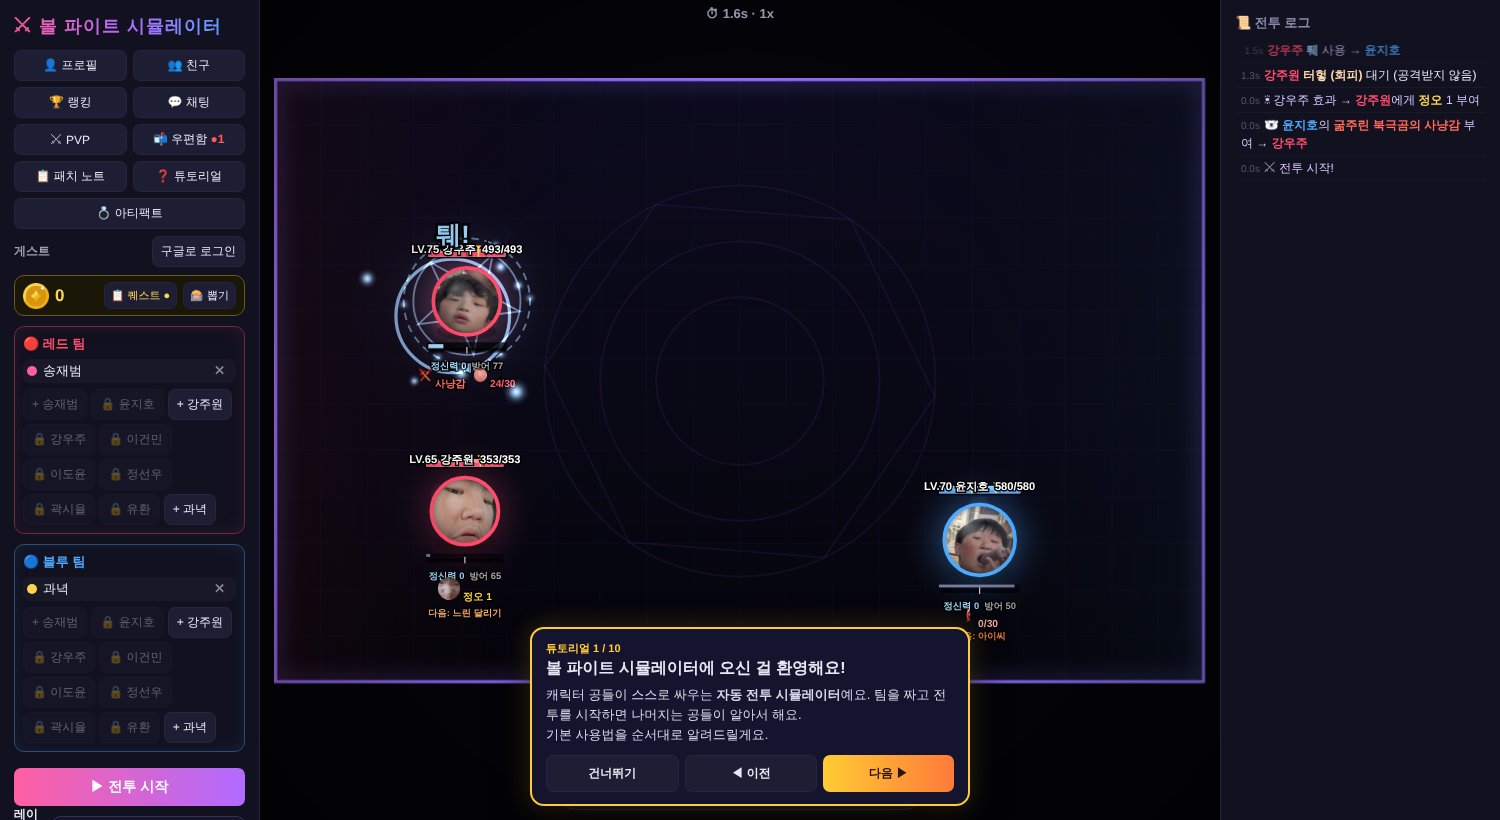
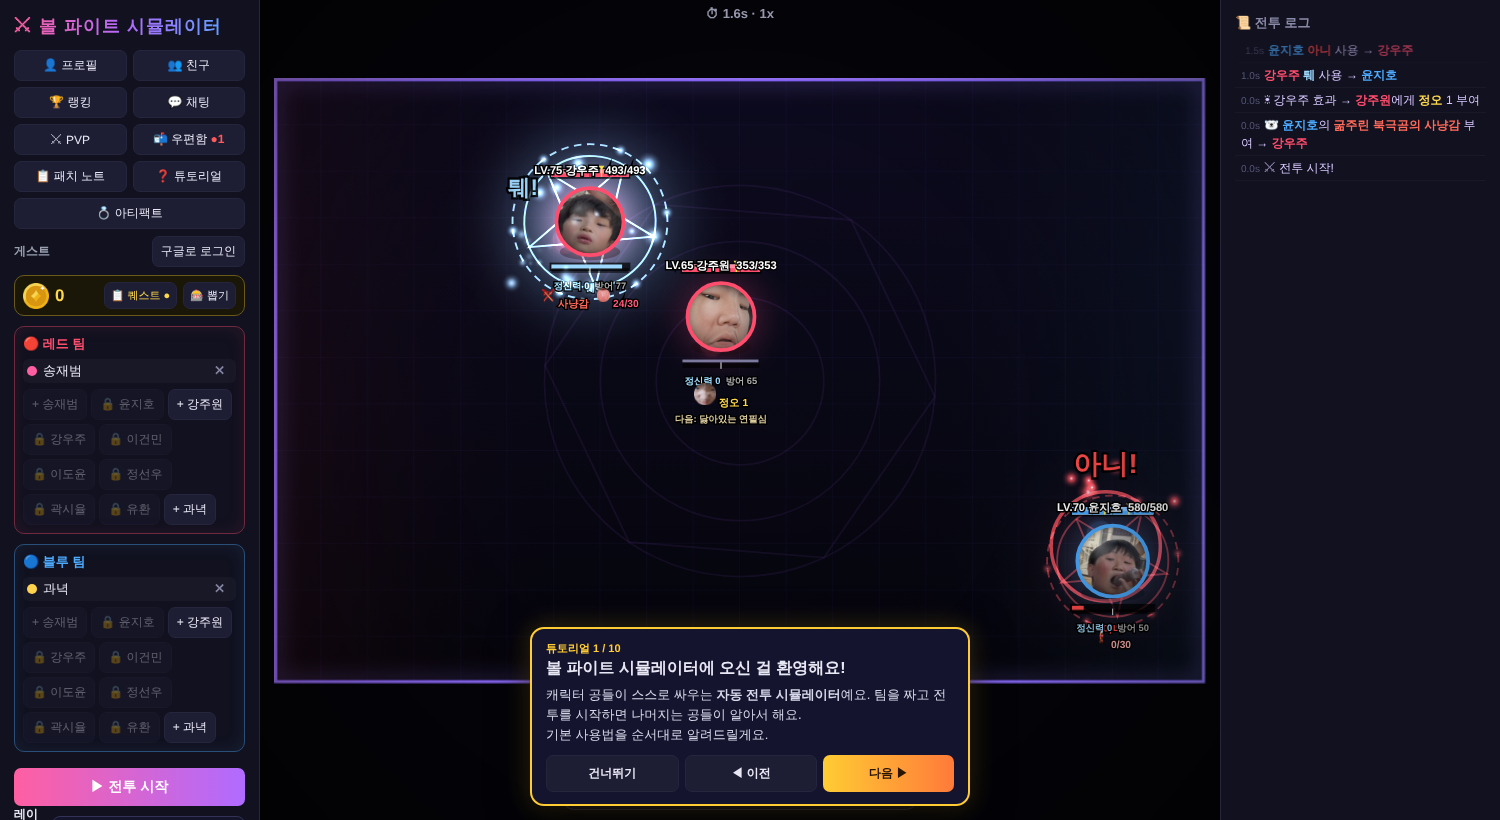
Multi-target sword attacks: one sword sweeps across all targets
Claude-Session: https://claude.ai/code/session_011zGi9gVJQ1Coo7UsSWyUEJ

diff --git a/index.html b/index.html
@@ -2765,7 +2765,9 @@ function stepEngagement(e) {
   u.rawCoin = q.i;
   // 코인별 연: 해당 코인을 던질 때 연결된 아군이 함께 공격
   if (S.coinLink && S.coinLink[ci] && !u.linked) { u.linkedDone = u.linkedDone || []; const types = S.coinLink[ci].filter(x => !u.linkedDone.includes(x)); if (types.length) { u.linkedDone.push(...types); linkAttack(u.f, { link: types }, q.tgt); } }
+  { const al = targets.filter(x => x.alive); sweepCtx = al.length > 1 ? { list: al, done: false } : null; }
   targets.forEach((tg, k) => { if (tg.alive) { const r = hitCoin(u, tg, q.pow, ci, heads, crit); if (k === 0) again = r; } });
+  sweepCtx = null;
   if (u.f.coinView) {
     if (again) { u.f.coinView.total++; u.f.coinView.alive++; }
     u.f.coinView.res[u.f.coinView.res.length] = heads;
@@ -2901,7 +2903,9 @@ function hitCoin(u, t, pow, i, heads, crit) {
     // 절망의 기사의 검이 휘둘러지는 검기
     const ang = Math.atan2(t.y - f.y, t.x - f.x);
     const big = u.sk === 'emptyDespair';
-    slashes.push({ despairSl: true, img: despairSwordImg, x: t.x, y: t.y, tr: t.r, fx: f.x, fy: f.y, ang, dir: Math.random() < 0.5 ? 1 : -1, r: t.r * 2.7 + (big ? 45 : 0), big, life: big ? 0.85 : 0.65, max: big ? 0.85 : 0.65, seed: Math.random() * 10 });
+    const dsw = sweepInfo(f), dsl = { despairSl: true, img: despairSwordImg, x: t.x, y: t.y, tr: t.r, fx: f.x, fy: f.y, ang, dir: Math.random() < 0.5 ? 1 : -1, r: t.r * 2.7 + (big ? 45 : 0), big, life: big ? 0.85 : 0.65, max: big ? 0.85 : 0.65, seed: Math.random() * 10 };
+    if (dsw && !dsw.skip) Object.assign(dsl, { x: dsw.x, y: dsw.y, ang: dsw.ang, r: dsw.r, sweep: dsw.sweep, life: 0.95, max: 0.95 });
+    if (!dsw || !dsw.skip) slashes.push(dsl);
     burst(t.x, t.y, '#8ab0ff', 18, 460, 8, 0.5, { kind: 'spark' }); burst(t.x, t.y, '#1a2a6a', 5, 90, 30, 1.0, { kind: 'smoke', drag: 0.95, g: 30 });
     shake = Math.max(shake, big ? 18 : 10); if (big) doFlash('#1a3aff', 0.25);
   } else if (f.type === 'sunwoo' || f.type === 'doyun') {
@@ -2918,8 +2922,10 @@ function hitCoin(u, t, pow, i, heads, crit) {
     const ang = Math.atan2(t.y - f.y, t.x - f.x);
     const big = u.sk === 'dawn' || u.sk === 'rage' || u.sk === 'noon';
     const dir = Math.random() < 0.5 ? 1 : -1, R = t.r * 2.9 + (big ? 45 : 0);
-    const pal = FIRE_PAL[f.type] || FIRE_PAL.juwon;
-    slashes.push({ fire: true, pal, img: f.type === 'gunmin' ? gunminSwordImg : f.type === 'wooju' ? woojuSwordImg : f.type === 'juwon' ? juwonSwordImg : f.type === 'juwon2' ? juwon2SwordImg : null, x: t.x, y: t.y, ang, dir, r: R, life: 0.72, max: 0.72, big, seed: Math.random() * 10 });
+    const pal = FIRE_PAL[f.type] || FIRE_PAL.juwon, sw = sweepInfo(f);
+    const fsl = { fire: true, pal, img: f.type === 'gunmin' ? gunminSwordImg : f.type === 'wooju' ? woojuSwordImg : f.type === 'juwon' ? juwonSwordImg : f.type === 'juwon2' ? juwon2SwordImg : null, x: t.x, y: t.y, ang, dir, r: R, life: 0.72, max: 0.72, big, seed: Math.random() * 10 };
+    if (sw && !sw.skip) Object.assign(fsl, { x: sw.x, y: sw.y, ang: sw.ang, r: sw.r, sweep: sw.sweep, life: 0.85, max: 0.85 });
+    if (!sw || !sw.skip) slashes.push(fsl);
     timeFx.push({ x: t.x, y: t.y, r: R * 0.55, life: 1.4, max: 1.4, kind: 'scorch', col: pal[0] }); // 바닥에 남는 그을림
     // 오래 떠오르는 불씨
     for (let k = 0; k < Math.round((big ? 22 : 12) * QUALITY) + 3; k++) particles.push({ x: t.x + rand(-R * 0.5, R * 0.5), y: t.y + rand(-R * 0.3, R * 0.3), vx: rand(-40, 40), vy: rand(-160, -60), life: rand(0.9, 1.6), max: 1.6, size: rand(2, 4.5), color: pal[3], drag: 0.98, g: -30, kind: 'spark', rot: 0 });
@@ -3926,7 +3932,7 @@ function drawDespairSlash(sl, k, a0, a1) {
   const lo = Math.min(a0, a1), hi = Math.max(a0, a1), p = 1 - k, R = sl.r;
   ctx.save(); ctx.translate(sl.x, sl.y);
   // 바닥의 물결 (침잠)
-  for (let i = 0; i < 3; i++) { const q = Math.max(0, p * 1.4 - i * 0.18); if (q <= 0 || q >= 1) continue; ctx.globalAlpha = (1 - q) * 0.7; ctx.strokeStyle = i % 2 ? '#9ac0ff' : '#3a6aff'; ctx.lineWidth = 3 * (1 - q) + 0.5; ctx.beginPath(); ctx.ellipse(0, sl.tr * 0.7, R * (0.3 + q * 0.9), R * (0.1 + q * 0.28), 0, 0, TAU); ctx.stroke(); }
+  if (!sl.sweep) for (let i = 0; i < 3; i++) { const q = Math.max(0, p * 1.4 - i * 0.18); if (q <= 0 || q >= 1) continue; ctx.globalAlpha = (1 - q) * 0.7; ctx.strokeStyle = i % 2 ? '#9ac0ff' : '#3a6aff'; ctx.lineWidth = 3 * (1 - q) + 0.5; ctx.beginPath(); ctx.ellipse(0, sl.tr * 0.7, R * (0.3 + q * 0.9), R * (0.1 + q * 0.28), 0, 0, TAU); ctx.stroke(); }
   ctx.globalCompositeOperation = 'lighter';
   // 짙은 남색 → 시린 하늘색 초승달 칼날
   if (hi - lo > 0.05) {
@@ -3996,6 +4002,16 @@ function drawGunshot(sl, k) {
   // 튀어나가는 탄피
   { const ex = mx - ux * 10 + (-uy) * (40 * p) - ux * 30 * p, ey = my - uy * 10 + ux * (40 * p) + 300 * p * p - 60 * p; ctx.globalCompositeOperation = 'source-over'; ctx.globalAlpha = Math.min(1, k * 2); ctx.save(); ctx.translate(ex, ey); ctx.rotate(p * 20); ctx.fillStyle = '#e0b04a'; ctx.fillRect(-5, -2.5, 10, 5); ctx.fillStyle = '#8a5a1a'; ctx.fillRect(3, -2.5, 2, 5); ctx.restore(); }
   ctx.restore();
+}
+// 여러 대상 동시 공격: 검 하나가 시전자를 중심으로 모든 대상을 휩쓸듯 휘둘러짐
+let sweepCtx = null;
+function sweepInfo(f) {
+  const c = sweepCtx; if (!c) return null; if (c.done) return { skip: true }; c.done = true;
+  let sx = 0, sy = 0; for (const t of c.list) { sx += t.x; sy += t.y; }
+  const mid = Math.atan2(sy / c.list.length - f.y, sx / c.list.length - f.x);
+  let lo = 0, hi = 0, far = 0, tr = 0;
+  for (const t of c.list) { let d = Math.atan2(t.y - f.y, t.x - f.x) - mid; d = Math.atan2(Math.sin(d), Math.cos(d)); lo = Math.min(lo, d); hi = Math.max(hi, d); far = Math.max(far, Math.hypot(t.x - f.x, t.y - f.y)); tr = Math.max(tr, t.r); }
+  return { x: f.x, y: f.y, ang: mid + (lo + hi) / 2, sweep: clamp(hi - lo + 1.1, 1.8, 5.6), r: far + tr * 0.7 };
 }
 function drawFireSlash(sl, k, a0, a1) {
   const lo = Math.min(a0, a1), hi = Math.max(a0, a1), fl = simTime * 40 + sl.seed, p = 1 - k, P = sl.pal || FIRE_PAL.juwon;
@@ -4581,7 +4597,7 @@ function render() {
   for (const pp2 of panicPops) { const k = pp2.life / pp2.max, p = 1 - k; drawIcon(pp2.type === 'redglow' ? redglowImg : wrathImg, pp2.x, pp2.y - p * 30, 70 + p * 40, k); }
   for (const sl of slashes) {
     const k = sl.life / sl.max, p = 1 - k, e2 = 1 - Math.pow(1 - p, 3);
-    const sweep = 2.4, a0 = sl.ang - sl.dir * sweep / 2, a1 = a0 + sl.dir * sweep * e2; // 휘두르는 각도
+    const sweep = sl.sweep || 2.4, a0 = sl.ang - sl.dir * sweep / 2, a1 = a0 + sl.dir * sweep * e2; // 휘두르는 각도
     if (sl.bite) {
       // 지옥견의 세 머리: 벌린 아가리(불타는 목구멍)로 돌진 → 콱 맞물림 → 송곳니 자국 · 피 · 붉은 충격
       const SN = 0.34, lunge = Math.min(1, p / SN), snap = p < SN ? 0 : Math.min(1, (p - SN) / 0.66), fade = p < 0.55 ? 1 : 1 - (p - 0.55) / 0.45;
@@ -5742,6 +5758,7 @@ const UPG_FX = {
 // ================== 패치 노트 ==================
 // 업데이트할 때마다 맨 위에 항목을 추가 → 처음 접속할 때 자동으로 한 번 표시됨
 const PATCH_NOTES = [
+  { v: '8.1', date: '2026-11-20', items: ['검 휘두르기 연출 수정: 여러 대상을 동시에 공격할 때 대상마다 검이 따로 나오지 않고, 검 하나가 모든 대상을 휩쓸듯이 휘둘러져요 (강주원 · 강주원 [불타는 울음] · 이건민 · 강우주 · 절망의 기사)'] },
   { v: '8.0', date: '2026-11-20', items: ['흐트러짐 효과음 추가: 캐릭터가 흐트러지는 순간 전용 효과음이 재생돼요'] },
   { v: '7.9', date: '2026-11-20', items: ['🎬 연출 구경 서버 오픈: 모든 캐릭터·보스의 모델을 보고, 스킬 이펙트와 흐트러짐·패닉·처치·각성·되감기 부활 같은 연출을 버튼 하나로 구경할 수 있어요 (0.25x 슬로 모션 지원)'] },
   { v: '7.8', date: '2026-11-20', items: ['증오의 여왕 공격 이펙트 추가: 사랑으로!(분홍 하트 리본 · 하트 충격파) · 정의의 이름으로!(금빛 별똥별 · 별 각인) · 아르카나 슬레이브!(마법진 빛줄기 · 거대 마법진) · 발밑 마법진', '합: 공격 레벨 3 차이당 합 위력 +1 — 적용될 때 화면과 로그에 보너스가 표시돼요'] },

diff --git a/showcase/index.html b/showcase/index.html
@@ -2766,7 +2766,9 @@ function stepEngagement(e) {
   u.rawCoin = q.i;
   // 코인별 연: 해당 코인을 던질 때 연결된 아군이 함께 공격
   if (S.coinLink && S.coinLink[ci] && !u.linked) { u.linkedDone = u.linkedDone || []; const types = S.coinLink[ci].filter(x => !u.linkedDone.includes(x)); if (types.length) { u.linkedDone.push(...types); linkAttack(u.f, { link: types }, q.tgt); } }
+  { const al = targets.filter(x => x.alive); sweepCtx = al.length > 1 ? { list: al, done: false } : null; }
   targets.forEach((tg, k) => { if (tg.alive) { const r = hitCoin(u, tg, q.pow, ci, heads, crit); if (k === 0) again = r; } });
+  sweepCtx = null;
   if (u.f.coinView) {
     if (again) { u.f.coinView.total++; u.f.coinView.alive++; }
     u.f.coinView.res[u.f.coinView.res.length] = heads;
@@ -2902,7 +2904,9 @@ function hitCoin(u, t, pow, i, heads, crit) {
     // 절망의 기사의 검이 휘둘러지는 검기
     const ang = Math.atan2(t.y - f.y, t.x - f.x);
     const big = u.sk === 'emptyDespair';
-    slashes.push({ despairSl: true, img: despairSwordImg, x: t.x, y: t.y, tr: t.r, fx: f.x, fy: f.y, ang, dir: Math.random() < 0.5 ? 1 : -1, r: t.r * 2.7 + (big ? 45 : 0), big, life: big ? 0.85 : 0.65, max: big ? 0.85 : 0.65, seed: Math.random() * 10 });
+    const dsw = sweepInfo(f), dsl = { despairSl: true, img: despairSwordImg, x: t.x, y: t.y, tr: t.r, fx: f.x, fy: f.y, ang, dir: Math.random() < 0.5 ? 1 : -1, r: t.r * 2.7 + (big ? 45 : 0), big, life: big ? 0.85 : 0.65, max: big ? 0.85 : 0.65, seed: Math.random() * 10 };
+    if (dsw && !dsw.skip) Object.assign(dsl, { x: dsw.x, y: dsw.y, ang: dsw.ang, r: dsw.r, sweep: dsw.sweep, life: 0.95, max: 0.95 });
+    if (!dsw || !dsw.skip) slashes.push(dsl);
     burst(t.x, t.y, '#8ab0ff', 18, 460, 8, 0.5, { kind: 'spark' }); burst(t.x, t.y, '#1a2a6a', 5, 90, 30, 1.0, { kind: 'smoke', drag: 0.95, g: 30 });
     shake = Math.max(shake, big ? 18 : 10); if (big) doFlash('#1a3aff', 0.25);
   } else if (f.type === 'sunwoo' || f.type === 'doyun') {
@@ -2919,8 +2923,10 @@ function hitCoin(u, t, pow, i, heads, crit) {
     const ang = Math.atan2(t.y - f.y, t.x - f.x);
     const big = u.sk === 'dawn' || u.sk === 'rage' || u.sk === 'noon';
     const dir = Math.random() < 0.5 ? 1 : -1, R = t.r * 2.9 + (big ? 45 : 0);
-    const pal = FIRE_PAL[f.type] || FIRE_PAL.juwon;
-    slashes.push({ fire: true, pal, img: f.type === 'gunmin' ? gunminSwordImg : f.type === 'wooju' ? woojuSwordImg : f.type === 'juwon' ? juwonSwordImg : f.type === 'juwon2' ? juwon2SwordImg : null, x: t.x, y: t.y, ang, dir, r: R, life: 0.72, max: 0.72, big, seed: Math.random() * 10 });
+    const pal = FIRE_PAL[f.type] || FIRE_PAL.juwon, sw = sweepInfo(f);
+    const fsl = { fire: true, pal, img: f.type === 'gunmin' ? gunminSwordImg : f.type === 'wooju' ? woojuSwordImg : f.type === 'juwon' ? juwonSwordImg : f.type === 'juwon2' ? juwon2SwordImg : null, x: t.x, y: t.y, ang, dir, r: R, life: 0.72, max: 0.72, big, seed: Math.random() * 10 };
+    if (sw && !sw.skip) Object.assign(fsl, { x: sw.x, y: sw.y, ang: sw.ang, r: sw.r, sweep: sw.sweep, life: 0.85, max: 0.85 });
+    if (!sw || !sw.skip) slashes.push(fsl);
     timeFx.push({ x: t.x, y: t.y, r: R * 0.55, life: 1.4, max: 1.4, kind: 'scorch', col: pal[0] }); // 바닥에 남는 그을림
     // 오래 떠오르는 불씨
     for (let k = 0; k < Math.round((big ? 22 : 12) * QUALITY) + 3; k++) particles.push({ x: t.x + rand(-R * 0.5, R * 0.5), y: t.y + rand(-R * 0.3, R * 0.3), vx: rand(-40, 40), vy: rand(-160, -60), life: rand(0.9, 1.6), max: 1.6, size: rand(2, 4.5), color: pal[3], drag: 0.98, g: -30, kind: 'spark', rot: 0 });
@@ -3927,7 +3933,7 @@ function drawDespairSlash(sl, k, a0, a1) {
   const lo = Math.min(a0, a1), hi = Math.max(a0, a1), p = 1 - k, R = sl.r;
   ctx.save(); ctx.translate(sl.x, sl.y);
   // 바닥의 물결 (침잠)
-  for (let i = 0; i < 3; i++) { const q = Math.max(0, p * 1.4 - i * 0.18); if (q <= 0 || q >= 1) continue; ctx.globalAlpha = (1 - q) * 0.7; ctx.strokeStyle = i % 2 ? '#9ac0ff' : '#3a6aff'; ctx.lineWidth = 3 * (1 - q) + 0.5; ctx.beginPath(); ctx.ellipse(0, sl.tr * 0.7, R * (0.3 + q * 0.9), R * (0.1 + q * 0.28), 0, 0, TAU); ctx.stroke(); }
+  if (!sl.sweep) for (let i = 0; i < 3; i++) { const q = Math.max(0, p * 1.4 - i * 0.18); if (q <= 0 || q >= 1) continue; ctx.globalAlpha = (1 - q) * 0.7; ctx.strokeStyle = i % 2 ? '#9ac0ff' : '#3a6aff'; ctx.lineWidth = 3 * (1 - q) + 0.5; ctx.beginPath(); ctx.ellipse(0, sl.tr * 0.7, R * (0.3 + q * 0.9), R * (0.1 + q * 0.28), 0, 0, TAU); ctx.stroke(); }
   ctx.globalCompositeOperation = 'lighter';
   // 짙은 남색 → 시린 하늘색 초승달 칼날
   if (hi - lo > 0.05) {
@@ -3997,6 +4003,16 @@ function drawGunshot(sl, k) {
   // 튀어나가는 탄피
   { const ex = mx - ux * 10 + (-uy) * (40 * p) - ux * 30 * p, ey = my - uy * 10 + ux * (40 * p) + 300 * p * p - 60 * p; ctx.globalCompositeOperation = 'source-over'; ctx.globalAlpha = Math.min(1, k * 2); ctx.save(); ctx.translate(ex, ey); ctx.rotate(p * 20); ctx.fillStyle = '#e0b04a'; ctx.fillRect(-5, -2.5, 10, 5); ctx.fillStyle = '#8a5a1a'; ctx.fillRect(3, -2.5, 2, 5); ctx.restore(); }
   ctx.restore();
+}
+// 여러 대상 동시 공격: 검 하나가 시전자를 중심으로 모든 대상을 휩쓸듯 휘둘러짐
+let sweepCtx = null;
+function sweepInfo(f) {
+  const c = sweepCtx; if (!c) return null; if (c.done) return { skip: true }; c.done = true;
+  let sx = 0, sy = 0; for (const t of c.list) { sx += t.x; sy += t.y; }
+  const mid = Math.atan2(sy / c.list.length - f.y, sx / c.list.length - f.x);
+  let lo = 0, hi = 0, far = 0, tr = 0;
+  for (const t of c.list) { let d = Math.atan2(t.y - f.y, t.x - f.x) - mid; d = Math.atan2(Math.sin(d), Math.cos(d)); lo = Math.min(lo, d); hi = Math.max(hi, d); far = Math.max(far, Math.hypot(t.x - f.x, t.y - f.y)); tr = Math.max(tr, t.r); }
+  return { x: f.x, y: f.y, ang: mid + (lo + hi) / 2, sweep: clamp(hi - lo + 1.1, 1.8, 5.6), r: far + tr * 0.7 };
 }
 function drawFireSlash(sl, k, a0, a1) {
   const lo = Math.min(a0, a1), hi = Math.max(a0, a1), fl = simTime * 40 + sl.seed, p = 1 - k, P = sl.pal || FIRE_PAL.juwon;
@@ -4582,7 +4598,7 @@ function render() {
   for (const pp2 of panicPops) { const k = pp2.life / pp2.max, p = 1 - k; drawIcon(pp2.type === 'redglow' ? redglowImg : wrathImg, pp2.x, pp2.y - p * 30, 70 + p * 40, k); }
   for (const sl of slashes) {
     const k = sl.life / sl.max, p = 1 - k, e2 = 1 - Math.pow(1 - p, 3);
-    const sweep = 2.4, a0 = sl.ang - sl.dir * sweep / 2, a1 = a0 + sl.dir * sweep * e2; // 휘두르는 각도
+    const sweep = sl.sweep || 2.4, a0 = sl.ang - sl.dir * sweep / 2, a1 = a0 + sl.dir * sweep * e2; // 휘두르는 각도
     if (sl.bite) {
       // 지옥견의 세 머리: 벌린 아가리(불타는 목구멍)로 돌진 → 콱 맞물림 → 송곳니 자국 · 피 · 붉은 충격
       const SN = 0.34, lunge = Math.min(1, p / SN), snap = p < SN ? 0 : Math.min(1, (p - SN) / 0.66), fade = p < 0.55 ? 1 : 1 - (p - 0.55) / 0.45;
@@ -5743,6 +5759,7 @@ const UPG_FX = {
 // ================== 패치 노트 ==================
 // 업데이트할 때마다 맨 위에 항목을 추가 → 처음 접속할 때 자동으로 한 번 표시됨
 const PATCH_NOTES = [
+  { v: '8.1', date: '2026-11-20', items: ['검 휘두르기 연출 수정: 여러 대상을 동시에 공격할 때 대상마다 검이 따로 나오지 않고, 검 하나가 모든 대상을 휩쓸듯이 휘둘러져요 (강주원 · 강주원 [불타는 울음] · 이건민 · 강우주 · 절망의 기사)'] },
   { v: '8.0', date: '2026-11-20', items: ['흐트러짐 효과음 추가: 캐릭터가 흐트러지는 순간 전용 효과음이 재생돼요'] },
   { v: '7.9', date: '2026-11-20', items: ['🎬 연출 구경 서버 오픈: 모든 캐릭터·보스의 모델을 보고, 스킬 이펙트와 흐트러짐·패닉·처치·각성·되감기 부활 같은 연출을 버튼 하나로 구경할 수 있어요 (0.25x 슬로 모션 지원)'] },
   { v: '7.8', date: '2026-11-20', items: ['증오의 여왕 공격 이펙트 추가: 사랑으로!(분홍 하트 리본 · 하트 충격파) · 정의의 이름으로!(금빛 별똥별 · 별 각인) · 아르카나 슬레이브!(마법진 빛줄기 · 거대 마법진) · 발밑 마법진', '합: 공격 레벨 3 차이당 합 위력 +1 — 적용될 때 화면과 로그에 보너스가 표시돼요'] },

diff --git a/test/index.html b/test/index.html
@@ -2766,7 +2766,9 @@ function stepEngagement(e) {
   u.rawCoin = q.i;
   // 코인별 연: 해당 코인을 던질 때 연결된 아군이 함께 공격
   if (S.coinLink && S.coinLink[ci] && !u.linked) { u.linkedDone = u.linkedDone || []; const types = S.coinLink[ci].filter(x => !u.linkedDone.includes(x)); if (types.length) { u.linkedDone.push(...types); linkAttack(u.f, { link: types }, q.tgt); } }
+  { const al = targets.filter(x => x.alive); sweepCtx = al.length > 1 ? { list: al, done: false } : null; }
   targets.forEach((tg, k) => { if (tg.alive) { const r = hitCoin(u, tg, q.pow, ci, heads, crit); if (k === 0) again = r; } });
+  sweepCtx = null;
   if (u.f.coinView) {
     if (again) { u.f.coinView.total++; u.f.coinView.alive++; }
     u.f.coinView.res[u.f.coinView.res.length] = heads;
@@ -2902,7 +2904,9 @@ function hitCoin(u, t, pow, i, heads, crit) {
     // 절망의 기사의 검이 휘둘러지는 검기
     const ang = Math.atan2(t.y - f.y, t.x - f.x);
     const big = u.sk === 'emptyDespair';
-    slashes.push({ despairSl: true, img: despairSwordImg, x: t.x, y: t.y, tr: t.r, fx: f.x, fy: f.y, ang, dir: Math.random() < 0.5 ? 1 : -1, r: t.r * 2.7 + (big ? 45 : 0), big, life: big ? 0.85 : 0.65, max: big ? 0.85 : 0.65, seed: Math.random() * 10 });
+    const dsw = sweepInfo(f), dsl = { despairSl: true, img: despairSwordImg, x: t.x, y: t.y, tr: t.r, fx: f.x, fy: f.y, ang, dir: Math.random() < 0.5 ? 1 : -1, r: t.r * 2.7 + (big ? 45 : 0), big, life: big ? 0.85 : 0.65, max: big ? 0.85 : 0.65, seed: Math.random() * 10 };
+    if (dsw && !dsw.skip) Object.assign(dsl, { x: dsw.x, y: dsw.y, ang: dsw.ang, r: dsw.r, sweep: dsw.sweep, life: 0.95, max: 0.95 });
+    if (!dsw || !dsw.skip) slashes.push(dsl);
     burst(t.x, t.y, '#8ab0ff', 18, 460, 8, 0.5, { kind: 'spark' }); burst(t.x, t.y, '#1a2a6a', 5, 90, 30, 1.0, { kind: 'smoke', drag: 0.95, g: 30 });
     shake = Math.max(shake, big ? 18 : 10); if (big) doFlash('#1a3aff', 0.25);
   } else if (f.type === 'sunwoo' || f.type === 'doyun') {
@@ -2919,8 +2923,10 @@ function hitCoin(u, t, pow, i, heads, crit) {
     const ang = Math.atan2(t.y - f.y, t.x - f.x);
     const big = u.sk === 'dawn' || u.sk === 'rage' || u.sk === 'noon';
     const dir = Math.random() < 0.5 ? 1 : -1, R = t.r * 2.9 + (big ? 45 : 0);
-    const pal = FIRE_PAL[f.type] || FIRE_PAL.juwon;
-    slashes.push({ fire: true, pal, img: f.type === 'gunmin' ? gunminSwordImg : f.type === 'wooju' ? woojuSwordImg : f.type === 'juwon' ? juwonSwordImg : f.type === 'juwon2' ? juwon2SwordImg : null, x: t.x, y: t.y, ang, dir, r: R, life: 0.72, max: 0.72, big, seed: Math.random() * 10 });
+    const pal = FIRE_PAL[f.type] || FIRE_PAL.juwon, sw = sweepInfo(f);
+    const fsl = { fire: true, pal, img: f.type === 'gunmin' ? gunminSwordImg : f.type === 'wooju' ? woojuSwordImg : f.type === 'juwon' ? juwonSwordImg : f.type === 'juwon2' ? juwon2SwordImg : null, x: t.x, y: t.y, ang, dir, r: R, life: 0.72, max: 0.72, big, seed: Math.random() * 10 };
+    if (sw && !sw.skip) Object.assign(fsl, { x: sw.x, y: sw.y, ang: sw.ang, r: sw.r, sweep: sw.sweep, life: 0.85, max: 0.85 });
+    if (!sw || !sw.skip) slashes.push(fsl);
     timeFx.push({ x: t.x, y: t.y, r: R * 0.55, life: 1.4, max: 1.4, kind: 'scorch', col: pal[0] }); // 바닥에 남는 그을림
     // 오래 떠오르는 불씨
     for (let k = 0; k < Math.round((big ? 22 : 12) * QUALITY) + 3; k++) particles.push({ x: t.x + rand(-R * 0.5, R * 0.5), y: t.y + rand(-R * 0.3, R * 0.3), vx: rand(-40, 40), vy: rand(-160, -60), life: rand(0.9, 1.6), max: 1.6, size: rand(2, 4.5), color: pal[3], drag: 0.98, g: -30, kind: 'spark', rot: 0 });
@@ -3927,7 +3933,7 @@ function drawDespairSlash(sl, k, a0, a1) {
   const lo = Math.min(a0, a1), hi = Math.max(a0, a1), p = 1 - k, R = sl.r;
   ctx.save(); ctx.translate(sl.x, sl.y);
   // 바닥의 물결 (침잠)
-  for (let i = 0; i < 3; i++) { const q = Math.max(0, p * 1.4 - i * 0.18); if (q <= 0 || q >= 1) continue; ctx.globalAlpha = (1 - q) * 0.7; ctx.strokeStyle = i % 2 ? '#9ac0ff' : '#3a6aff'; ctx.lineWidth = 3 * (1 - q) + 0.5; ctx.beginPath(); ctx.ellipse(0, sl.tr * 0.7, R * (0.3 + q * 0.9), R * (0.1 + q * 0.28), 0, 0, TAU); ctx.stroke(); }
+  if (!sl.sweep) for (let i = 0; i < 3; i++) { const q = Math.max(0, p * 1.4 - i * 0.18); if (q <= 0 || q >= 1) continue; ctx.globalAlpha = (1 - q) * 0.7; ctx.strokeStyle = i % 2 ? '#9ac0ff' : '#3a6aff'; ctx.lineWidth = 3 * (1 - q) + 0.5; ctx.beginPath(); ctx.ellipse(0, sl.tr * 0.7, R * (0.3 + q * 0.9), R * (0.1 + q * 0.28), 0, 0, TAU); ctx.stroke(); }
   ctx.globalCompositeOperation = 'lighter';
   // 짙은 남색 → 시린 하늘색 초승달 칼날
   if (hi - lo > 0.05) {
@@ -3997,6 +4003,16 @@ function drawGunshot(sl, k) {
   // 튀어나가는 탄피
   { const ex = mx - ux * 10 + (-uy) * (40 * p) - ux * 30 * p, ey = my - uy * 10 + ux * (40 * p) + 300 * p * p - 60 * p; ctx.globalCompositeOperation = 'source-over'; ctx.globalAlpha = Math.min(1, k * 2); ctx.save(); ctx.translate(ex, ey); ctx.rotate(p * 20); ctx.fillStyle = '#e0b04a'; ctx.fillRect(-5, -2.5, 10, 5); ctx.fillStyle = '#8a5a1a'; ctx.fillRect(3, -2.5, 2, 5); ctx.restore(); }
   ctx.restore();
+}
+// 여러 대상 동시 공격: 검 하나가 시전자를 중심으로 모든 대상을 휩쓸듯 휘둘러짐
+let sweepCtx = null;
+function sweepInfo(f) {
+  const c = sweepCtx; if (!c) return null; if (c.done) return { skip: true }; c.done = true;
+  let sx = 0, sy = 0; for (const t of c.list) { sx += t.x; sy += t.y; }
+  const mid = Math.atan2(sy / c.list.length - f.y, sx / c.list.length - f.x);
+  let lo = 0, hi = 0, far = 0, tr = 0;
+  for (const t of c.list) { let d = Math.atan2(t.y - f.y, t.x - f.x) - mid; d = Math.atan2(Math.sin(d), Math.cos(d)); lo = Math.min(lo, d); hi = Math.max(hi, d); far = Math.max(far, Math.hypot(t.x - f.x, t.y - f.y)); tr = Math.max(tr, t.r); }
+  return { x: f.x, y: f.y, ang: mid + (lo + hi) / 2, sweep: clamp(hi - lo + 1.1, 1.8, 5.6), r: far + tr * 0.7 };
 }
 function drawFireSlash(sl, k, a0, a1) {
   const lo = Math.min(a0, a1), hi = Math.max(a0, a1), fl = simTime * 40 + sl.seed, p = 1 - k, P = sl.pal || FIRE_PAL.juwon;
@@ -4582,7 +4598,7 @@ function render() {
   for (const pp2 of panicPops) { const k = pp2.life / pp2.max, p = 1 - k; drawIcon(pp2.type === 'redglow' ? redglowImg : wrathImg, pp2.x, pp2.y - p * 30, 70 + p * 40, k); }
   for (const sl of slashes) {
     const k = sl.life / sl.max, p = 1 - k, e2 = 1 - Math.pow(1 - p, 3);
-    const sweep = 2.4, a0 = sl.ang - sl.dir * sweep / 2, a1 = a0 + sl.dir * sweep * e2; // 휘두르는 각도
+    const sweep = sl.sweep || 2.4, a0 = sl.ang - sl.dir * sweep / 2, a1 = a0 + sl.dir * sweep * e2; // 휘두르는 각도
     if (sl.bite) {
       // 지옥견의 세 머리: 벌린 아가리(불타는 목구멍)로 돌진 → 콱 맞물림 → 송곳니 자국 · 피 · 붉은 충격
       const SN = 0.34, lunge = Math.min(1, p / SN), snap = p < SN ? 0 : Math.min(1, (p - SN) / 0.66), fade = p < 0.55 ? 1 : 1 - (p - 0.55) / 0.45;
@@ -5743,6 +5759,7 @@ const UPG_FX = {
 // ================== 패치 노트 ==================
 // 업데이트할 때마다 맨 위에 항목을 추가 → 처음 접속할 때 자동으로 한 번 표시됨
 const PATCH_NOTES = [
+  { v: '8.1', date: '2026-11-20', items: ['검 휘두르기 연출 수정: 여러 대상을 동시에 공격할 때 대상마다 검이 따로 나오지 않고, 검 하나가 모든 대상을 휩쓸듯이 휘둘러져요 (강주원 · 강주원 [불타는 울음] · 이건민 · 강우주 · 절망의 기사)'] },
   { v: '8.0', date: '2026-11-20', items: ['흐트러짐 효과음 추가: 캐릭터가 흐트러지는 순간 전용 효과음이 재생돼요'] },
   { v: '7.9', date: '2026-11-20', items: ['🎬 연출 구경 서버 오픈: 모든 캐릭터·보스의 모델을 보고, 스킬 이펙트와 흐트러짐·패닉·처치·각성·되감기 부활 같은 연출을 버튼 하나로 구경할 수 있어요 (0.25x 슬로 모션 지원)'] },
   { v: '7.8', date: '2026-11-20', items: ['증오의 여왕 공격 이펙트 추가: 사랑으로!(분홍 하트 리본 · 하트 충격파) · 정의의 이름으로!(금빛 별똥별 · 별 각인) · 아르카나 슬레이브!(마법진 빛줄기 · 거대 마법진) · 발밑 마법진', '합: 공격 레벨 3 차이당 합 위력 +1 — 적용될 때 화면과 로그에 보너스가 표시돼요'] },
